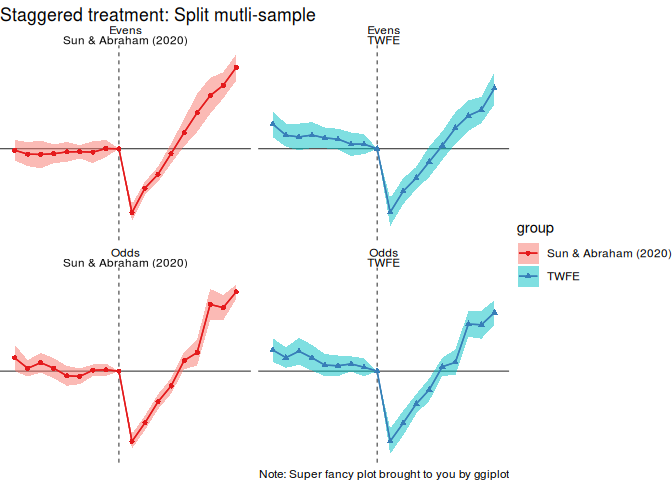
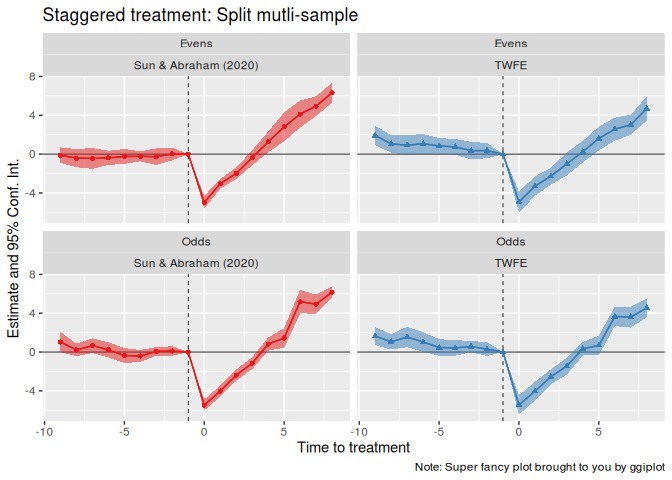
fix scale aesthetics in theme update example

diff --git a/README.md b/README.md
@@ -24,8 +24,9 @@ remotes::install_github("grantmcdermott/ggiplot")
 
 ## Examples
 
-Here follow some examples that draw on the **fixest** introductory
-vignette, as well as the `iplot()` help documentation.
+Here follow some examples that draw on the **fixest** [introductory
+vignette](https://lrberge.github.io/fixest/articles/fixest_walkthrough.html),
+as well as the `iplot()` help documentation.
 
 As we’ll see, the package essentially consists of a single function —
 **`ggiplot()`** — that tries to closely mimic it base compatriot.
@@ -75,7 +76,10 @@ ggiplot(est_did, geom = 'errorbar')
 
 <img src="man/figures/README-est_did_ebar-1.png" width="100%" />
 
-Many of the arguments work the same for `ggiplot()` as in `iplot()`.
+Many of the arguments for `iplot()` carry over to `ggiplot()` too. This
+is deliberate, since we want to reduce the cognitive overhead of
+switching between the two plotting methods. For example, we can join
+points using the same `pt.join = TRUE` argument.
 
 ``` r
 iplot(est_did, pt.join = TRUE)
@@ -117,7 +121,7 @@ ggiplot(est_did, geom_style = 'ribbon', col = 'orange')
 ### Example 2: Multiple estimation (i)
 
 We’ll demonstrate using the staggered treatment example from the
-introductory **fixest** vignette.
+**fixest** introductory vignette.
 
 ``` r
 data(base_stagg)
@@ -158,10 +162,10 @@ ggiplot(list(est_twfe, est_sa20),
 
 <img src="man/figures/README-stagg_ggiplot_noname-1.png" width="100%" />
 
-One nice think about the **ggplot2** API is that it makes changing
+One nice thing about the **ggplot2** API is that it makes changing
 multiplot figures simple. For example, if you don’t like the
-presentation of “dodged” models in a single frame, then it easy to facet
-them instead using the `multi_style = 'facet'` argument.
+presentation of “dodged” models in a single frame, then it’s easy to
+facet them instead using the `multi_style = 'facet'` argument.
 
 ``` r
 ggiplot(list('TWFE' = est_twfe, 'Sun & Abraham (2020)' = est_sa20),
@@ -211,7 +215,7 @@ ggiplot(est_twfe_grp, ref.line = -1, main = 'Staggered treatment: TWFE')
 
 <img src="man/figures/README-stagg_grp_single-2.png" width="100%" />
 
-However, `iplot` complains if we combine a *list* of (several)
+However, `iplot` complains if we combine a list of *several*
 `fixest_multi` objects.
 
 ``` r
@@ -265,7 +269,10 @@ last_plot() + labs(caption = 'Note: Super fancy plot brought to you by ggiplot')
 <img src="man/figures/README-theme_update-1.png" width="100%" />
 
 ``` r
-last_plot() + theme_void() + scale_colour_brewer(palette = 'Set1')
+last_plot() + 
+    theme_grey() + 
+    theme(legend.position = 'none') +
+    scale_colour_brewer(palette = 'Set1', aesthetics = c('colour', 'fill'))
 #> Scale for 'colour' is already present. Adding another scale for 'colour',
 #> which will replace the existing scale.
 ```
